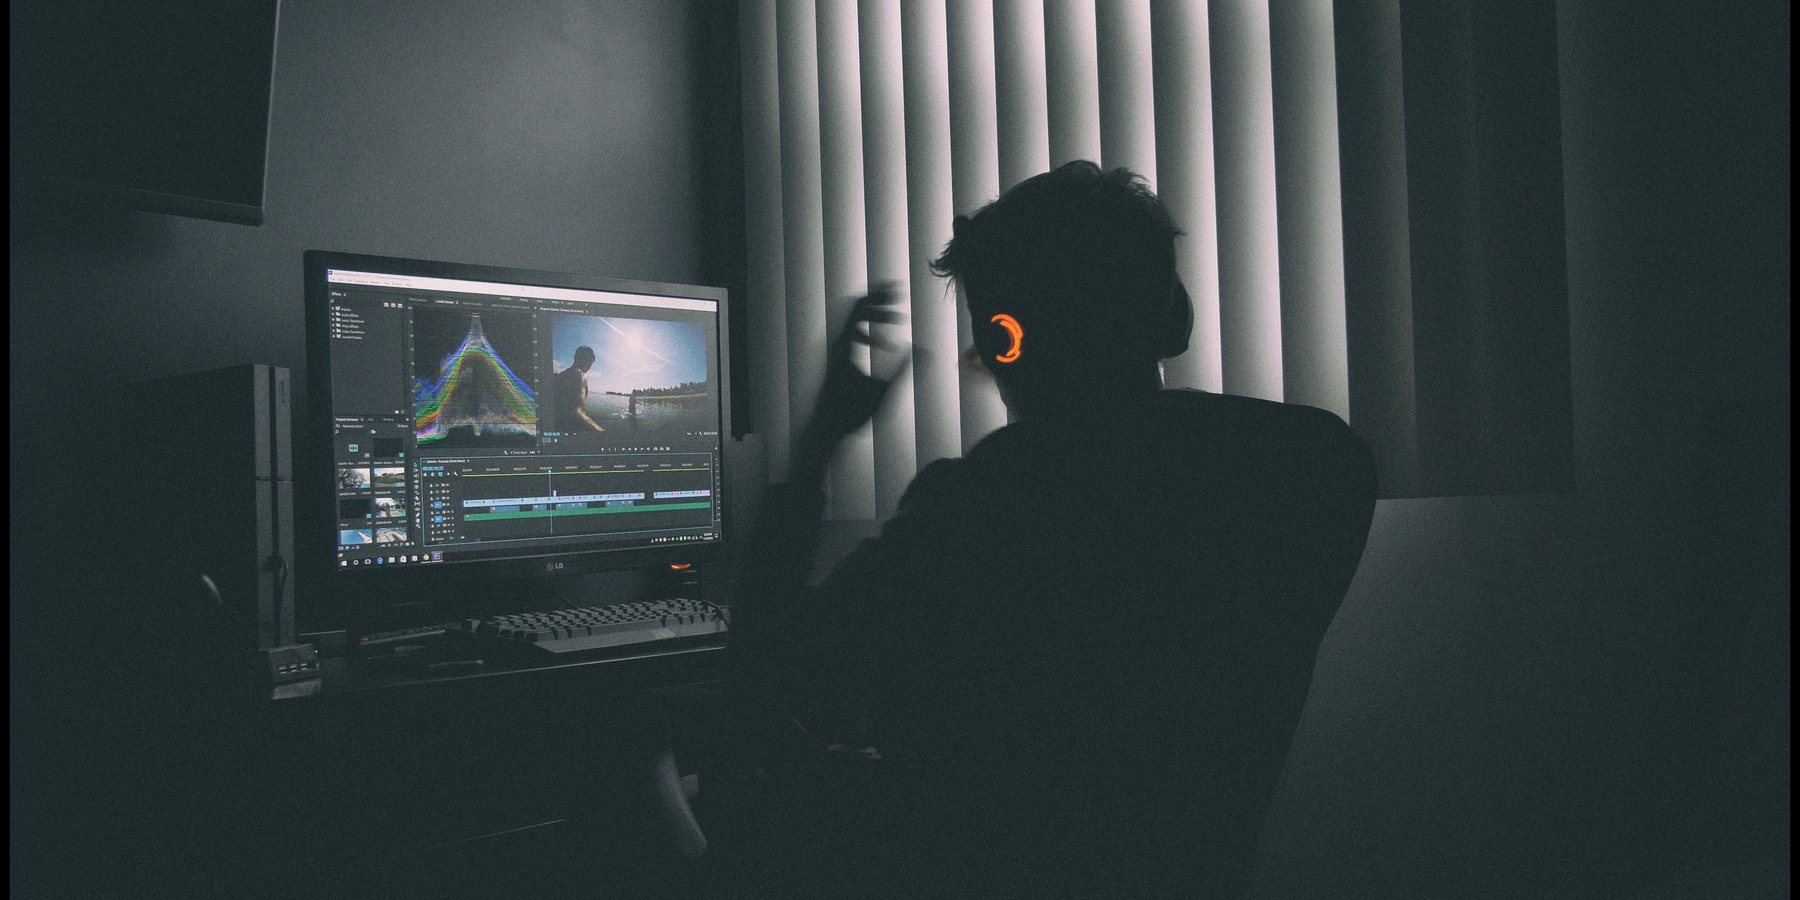
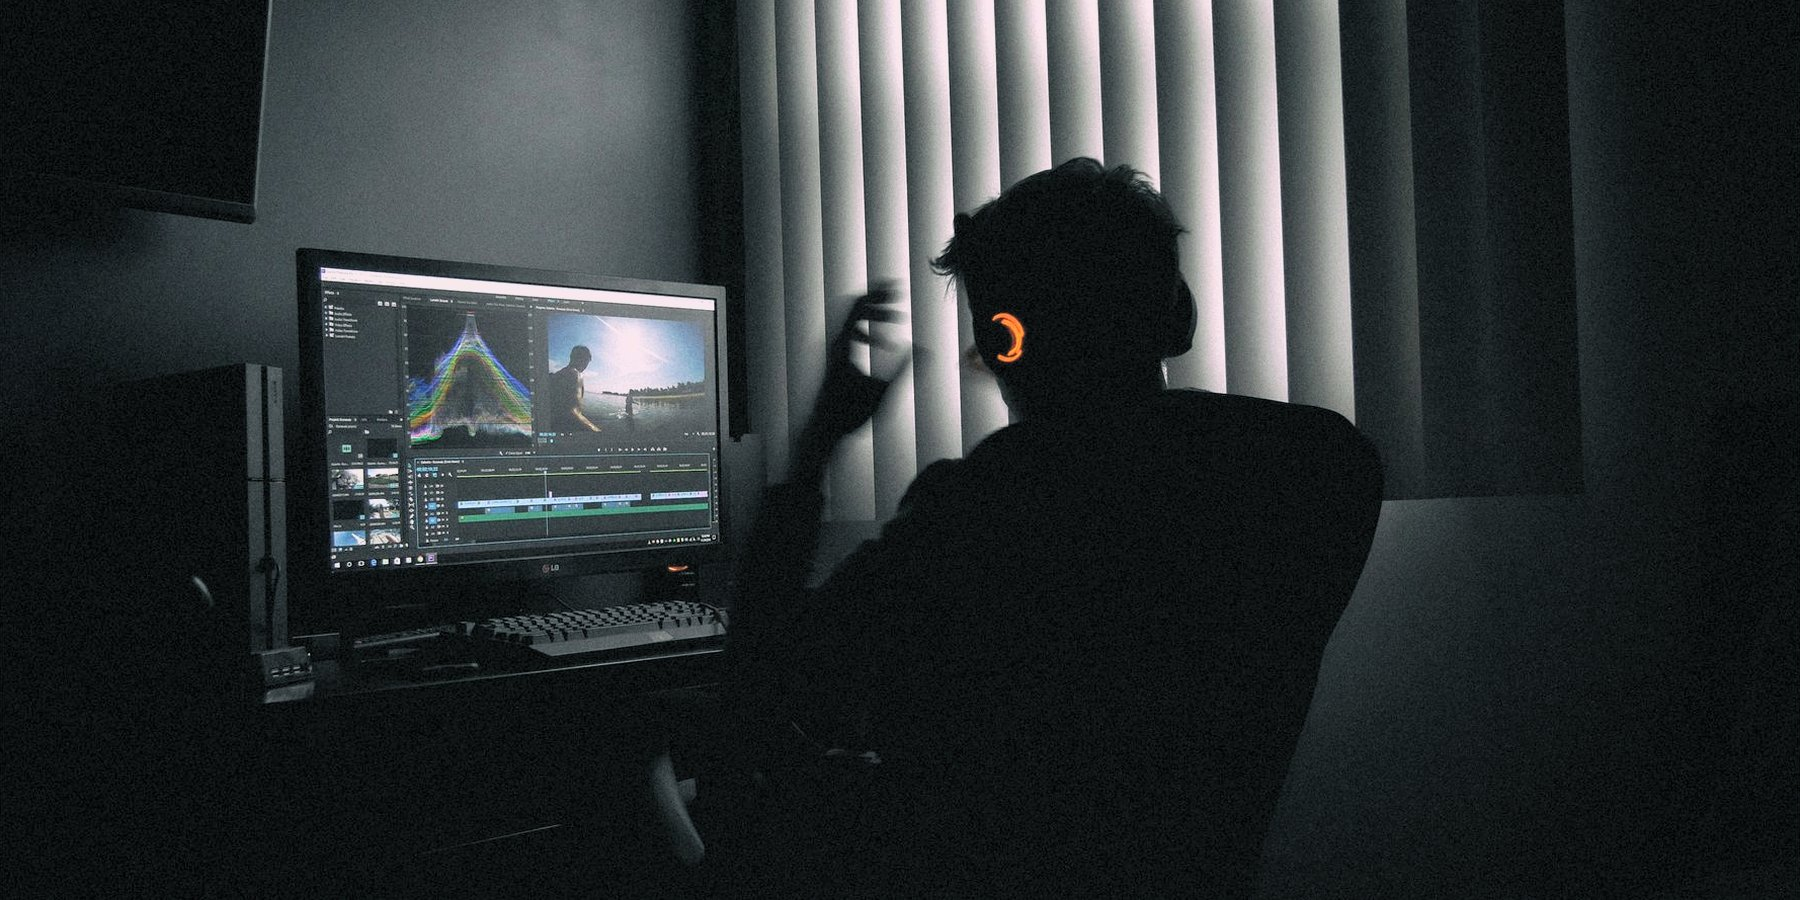
Copertine guide: curva di contrasto comune (script di controllo e correzione), corretta S03 con neri veri e senza bande nere
Claude-Session: https://claude.ai/code/session_01BqBqVmQfkBDxHMT7VGhYfc

diff --git a/scripts/copertine-contrasto.py b/scripts/copertine-contrasto.py
@@ -1,0 +1,82 @@
+#!/usr/bin/env python3
+"""Curva di contrasto comune per le copertine delle guide (src/assets/img/approfondimenti).
+
+Regola: neri veri e bianchi pieni, così la copertina regge sia sul fondo chiaro sia nel tema scuro
+(fondo #2F302C: una copertina con i neri grigi ci si confonde). Niente bande nere ai bordi.
+Vale per le foto. Gli screenshot di programmi (in SCREENSHOT) restano come sono: alzarne il contrasto
+schiarisce il grigio dell'interfaccia e la confonde col fondo scuro.
+Misura sulla luminanza:
+  - punto del nero (percentile 2)      <= 12
+  - punto del bianco (percentile 99.5) >= 215
+Uso:
+  python3 scripts/copertine-contrasto.py                        controlla tutte, segnala quelle fuori regola
+  python3 scripts/copertine-contrasto.py --correggi file.jpg    porta i livelli in regola
+La correzione lavora solo sulla luminosità (i colori restano gli stessi, niente dominanti):
+taglia le bande nere ai bordi, nero al percentile 2 -> 3, bianco al percentile 99.5 -> 238,
+mezzitoni con gamma 0.8 perché le ombre non si chiudano.
+"""
+import sys, glob, os
+import numpy as np
+from PIL import Image
+
+CARTELLA = os.path.join(os.path.dirname(__file__), "..", "src/assets/img/approfondimenti")
+NERO_MAX, BIANCO_MIN = 12, 215
+NERO_OUT, BIANCO_OUT, GAMMA = 3, 238, 0.8
+PESI = [0.299, 0.587, 0.114]
+SCREENSHOT = {"lufs-video-loudness-resolve.jpg", "export-aaf-resolve-render-settings.jpg"}
+
+def luminanza(im):
+    return np.asarray(im.convert("RGB"), float) @ PESI
+
+def bande_nere(L):
+    """Pixel di banda quasi nera a sinistra, destra, sopra, sotto."""
+    def conta(medie):
+        n = 0
+        while n < len(medie) // 10 and medie[n] < 4:
+            n += 1
+        return n
+    return conta(L.mean(0)), conta(L.mean(0)[::-1]), conta(L.mean(1)), conta(L.mean(1)[::-1])
+
+def correggi(percorso):
+    im = Image.open(percorso).convert("RGB")
+    w, h = im.size
+    s, d, a, b = bande_nere(luminanza(im))
+    if s or d or a or b:
+        # taglia le bande e conserva il formato ritagliando anche l'altro lato
+        x0, x1, y0, y1 = s + 2 if s else 0, w - (d + 2 if d else 0), a + 2 if a else 0, h - (b + 2 if b else 0)
+        nw, nh = x1 - x0, y1 - y0
+        if nw / nh > w / h:
+            taglio = nw - round(nh * w / h); x0 += taglio // 2; x1 -= taglio - taglio // 2
+        else:
+            taglio = nh - round(nw * h / w); y0 += taglio // 2; y1 -= taglio - taglio // 2
+        im = im.crop((x0, y0, x1, y1)).resize((w, h), Image.LANCZOS)
+    rgb = np.asarray(im, float)
+    L = rgb @ PESI
+    nero, bianco = np.percentile(L, [2, 99.5])
+    t = np.clip((L - nero) / (bianco - nero), 0, 1) ** GAMMA
+    nuova = NERO_OUT + t * (BIANCO_OUT - NERO_OUT)
+    out = np.clip(rgb * (nuova / np.maximum(L, 1))[..., None], 0, 255)
+    Image.fromarray(out.round().astype("uint8")).save(percorso, quality=85, optimize=True, progressive=True)
+    print(f"corretta {os.path.basename(percorso)}: nero {nero:.0f}->{NERO_OUT}, bianco {bianco:.0f}->{BIANCO_OUT}, bande {s},{d},{a},{b}")
+
+def controlla():
+    fuori = 0
+    for f in sorted(glob.glob(os.path.join(CARTELLA, "*.jpg"))):
+        if os.path.basename(f) in SCREENSHOT:
+            print(f"scr   {os.path.basename(f)}: screenshot, esclusa")
+            continue
+        L = luminanza(Image.open(f))
+        nero, mediana, bianco = np.percentile(L, [2, 50, 99.5])
+        bande = bande_nere(L)
+        ok = nero <= NERO_MAX and bianco >= BIANCO_MIN and not any(bande)
+        fuori += not ok
+        nota = f", bande nere {bande}" if any(bande) else ""
+        print(f"{'ok   ' if ok else 'FUORI'} {os.path.basename(f)}: nero {nero:.0f}, mediana {mediana:.0f}, bianco {bianco:.0f}{nota}")
+    return fuori
+
+if __name__ == "__main__":
+    if sys.argv[1:2] == ["--correggi"]:
+        for p in sys.argv[2:]:
+            correggi(p)
+    else:
+        sys.exit(1 if controlla() else 0)

diff --git a/README.md b/README.md
@@ -15,6 +15,7 @@ Sito personale di Riccardo Vojvoda, sounddesignrv.com. Statico, generato con Ele
 - `src/_includes/layouts/` base, progetto, pagina. `src/_includes/parti/` testata, video, contatto, pie'.
 - `src/_includes/css/sito.css` unico foglio di stile, inserito inline in ogni pagina.
 - `src/assets/img/progetti/` copertine (le versioni responsive avif/webp/jpeg le genera la build in `_site/assets/img/r/`).
+- `src/assets/img/approfondimenti/` copertine delle guide. Regola: tutte con la stessa curva di contrasto, neri veri e bianchi pieni, niente bande nere ai bordi, così reggono anche nel tema scuro. Ogni nuova copertina passa da `python3 scripts/copertine-contrasto.py` (controllo) e, se è fuori, da `--correggi file.jpg` (corregge solo la luminosità, i colori restano). Gli screenshot di programmi sono esclusi. Dopo una correzione, in locale cancellare le sue versioni in `_site/assets/img/r/`: la build non le rifà se il nome non cambia.
 - `src/radice/` file copiati nella root del sito: `CNAME` (dominio per GitHub Pages), icone, `robots.txt`.
 - `src/reindirizzi.njk` + `src/_data/reindirizzi.json`: pagine di redirect (meta refresh + noindex) dai vecchi URL Squarespace. GitHub Pages non ha `.htaccess`: niente redirect lato server, niente intestazioni personalizzate (la Content-Security-Policy sta in un `<meta>` nel layout base). Il profilo PDF viene copiato anche al vecchio percorso `/s/`.
 - `src/llms.njk` genera `/llms.txt`, `src/sitemap.njk` la sitemap.
